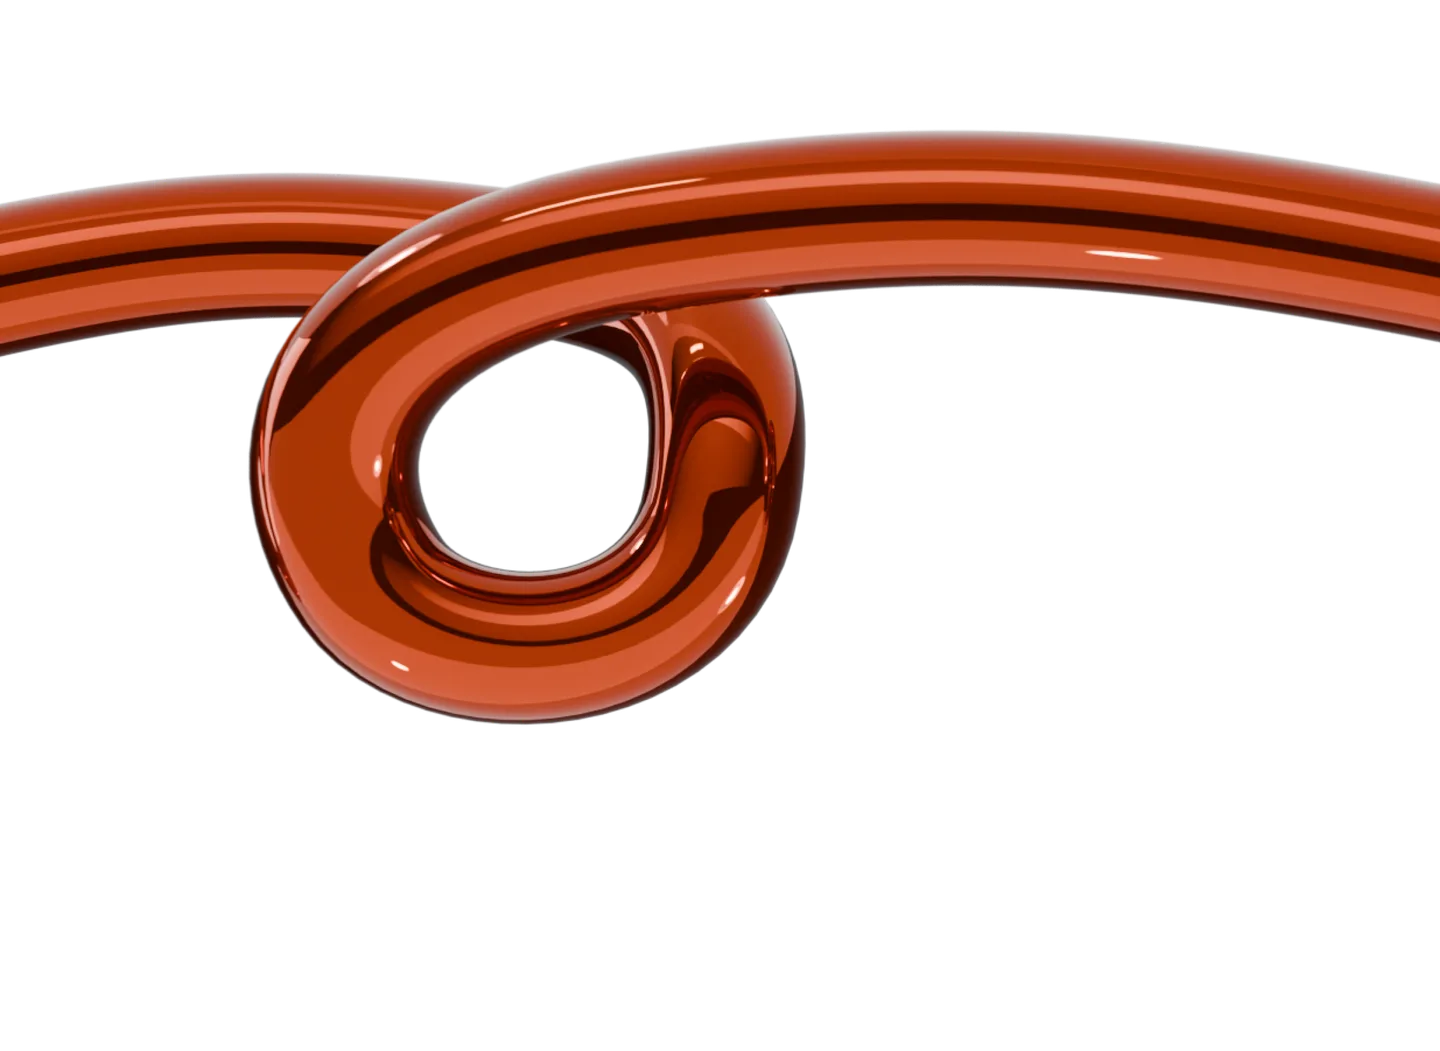
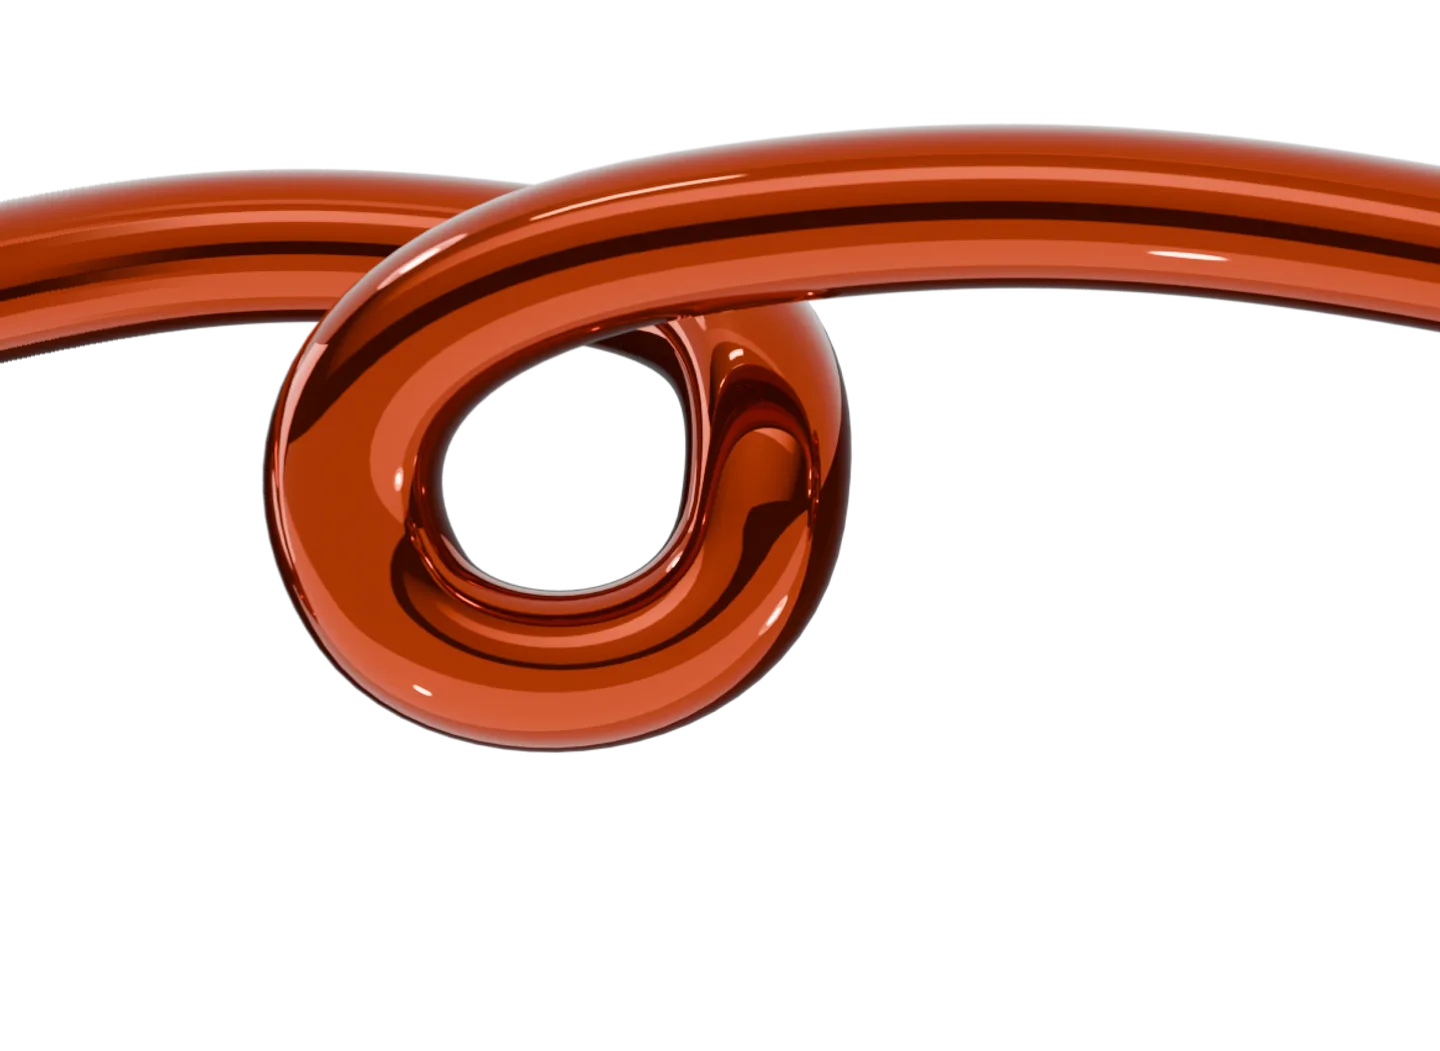
Join the copper curve across slides 3 and 4; no text selection on slider controls

Changed region(s): [[0.0, 0.1522, 0.7188, 0.7307], [0.5625, 0.0913, 1.0, 0.3349]]

diff --git a/src/styles/global.css b/src/styles/global.css
@@ -369,6 +369,9 @@ button:active { transform: scale(0.97); }
   padding: 0 1.25rem 3rem;
 }
 
+.slide-contact,
+.slider-nav { user-select: none; }
+
 .slider-arrow {
   width: 2.5rem;
   height: 2.5rem;
